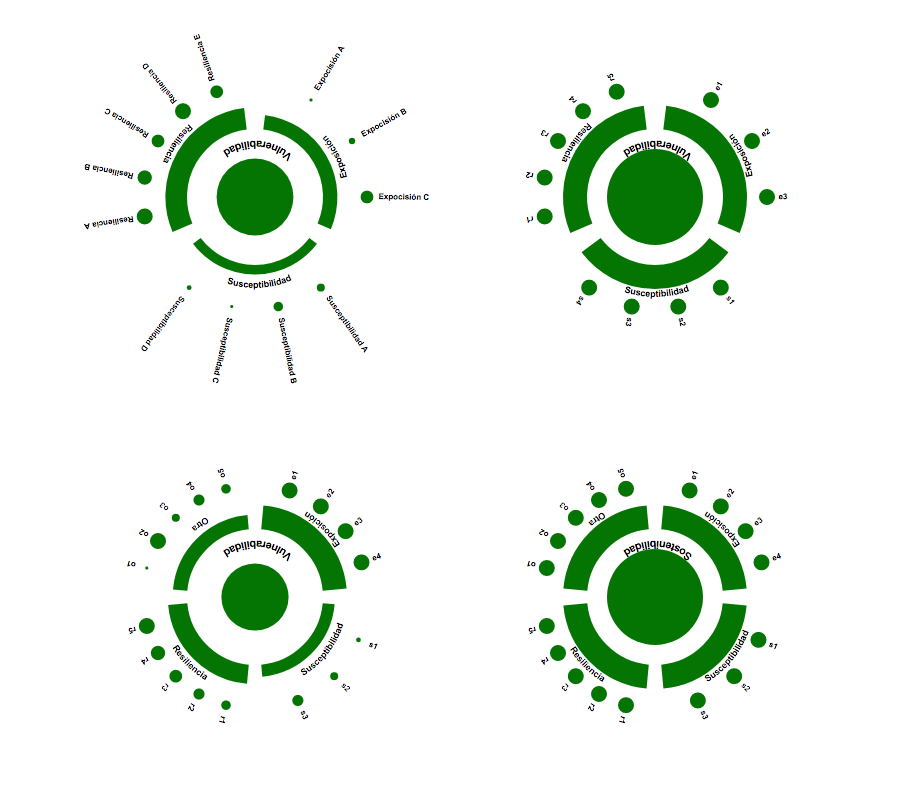
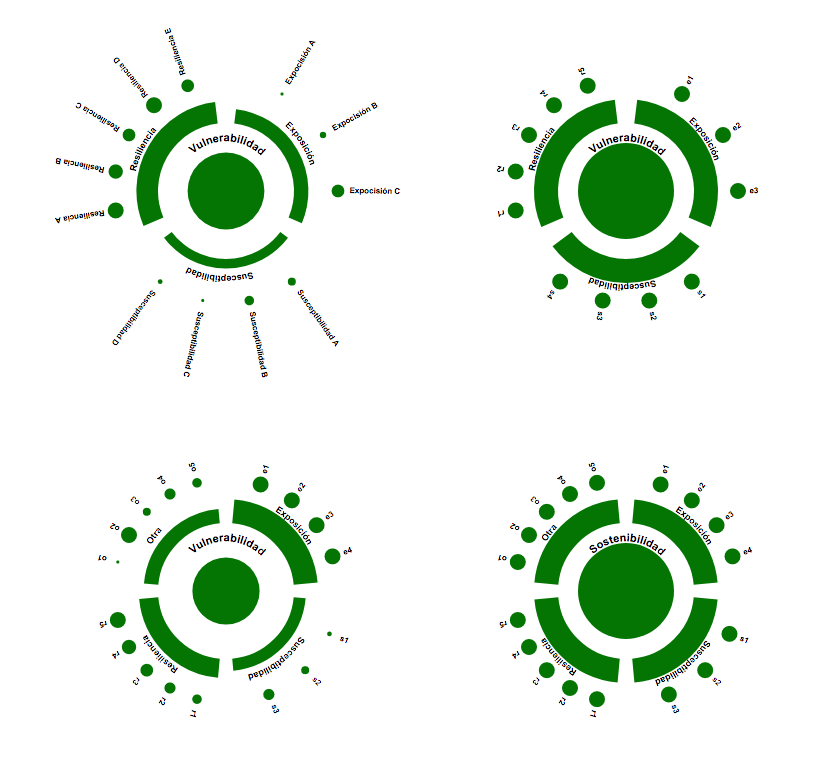
labels

diff --git a/test3.py b/test3.py
@@ -45,18 +45,27 @@ def addArcs(dwg, current_group, radius, center, data):
         addArc(dwg, current_group, p0=angle2xy(center[0],center[1],r,cortesAngulares[i]-delta), p1=angle2xy(center[0],center[1],r,cortesAngulares[i-1]+delta), radius=r, width=width)
 
         ###addLabels
-        rt = r*1.25
-        pt0=angle2xy(center[0],center[1],rt,cortesAngulares[i]-delta)
-        pt1=angle2xy(center[0],center[1],rt,cortesAngulares[i-1]+delta)
+        rt = r*1.17
+        middle_angle = (cortesAngulares[i]-cortesAngulares[i-1])/2
+        if middle_angle < 90 or middle_angle > 270:
+            alverez = "1"
+            pt1=angle2xy(center[0],center[1],rt,cortesAngulares[i]-delta)
+            pt0=angle2xy(center[0],center[1],rt,cortesAngulares[i-1]+delta)
+        else:
+            alverez = "0"
+            pt0=angle2xy(center[0],center[1],rt,cortesAngulares[i]-delta)
+            pt1=angle2xy(center[0],center[1],rt,cortesAngulares[i-1]+delta)
+
         args = {'x0':pt0[0],
             'y0':pt0[1],
             'xradius':rt,
             'yradius':rt,
             'ellipseRotation':0, #has no effect for circles
             'x1':(pt1[0]-pt0[0]),
-            'y1':(pt1[1]-pt0[1])}
+            'y1':(pt1[1]-pt0[1]),
+            'alverez':alverez}
         color = 'green'
-        w = dwg.path(d="M %(x0)f,%(y0)f a %(xradius)f,%(yradius)f %(ellipseRotation)f 0,0 %(x1)f,%(y1)f"%args,
+        w = dwg.path(d="M %(x0)f,%(y0)f a %(xradius)f,%(yradius)f %(ellipseRotation)f 0,%(alverez)s %(x1)f,%(y1)f"%args,
                  fill="none",
                  stroke=color, stroke_width=0
                 )
@@ -77,9 +86,9 @@ def addCircle(dwg, current_group,radius,center,data):
     ###addLabels
     size = int(14*radius/100)
     text_central = dwg.add(svgwrite.text.Text("",style = "font-size:"+str(size)+"px; font-family:Arial; font-weight:bold"))
-    rt = radius*0.7
-    pt0=angle2xy(center[0],center[1],rt,60)
-    pt1=angle2xy(center[0],center[1],rt,300)
+    rt = radius*0.62
+    pt0=angle2xy(center[0],center[1],rt,300)
+    pt1=angle2xy(center[0],center[1],rt,60)
     args = {'x0':pt0[0],
         'y0':pt0[1],
         'xradius':rt,
@@ -87,7 +96,7 @@ def addCircle(dwg, current_group,radius,center,data):
         'ellipseRotation':0, #has no effect for circles
         'x1':(pt1[0]-pt0[0]),
         'y1':(pt1[1]-pt0[1])}
-    w = dwg.path(d="M %(x0)f,%(y0)f a %(xradius)f,%(yradius)f %(ellipseRotation)f 0,0 %(x1)f,%(y1)f"%args,
+    w = dwg.path(d="M %(x0)f,%(y0)f a %(xradius)f,%(yradius)f %(ellipseRotation)f 0,1 %(x1)f,%(y1)f"%args,
              fill="none",
              stroke_width=0
             )
